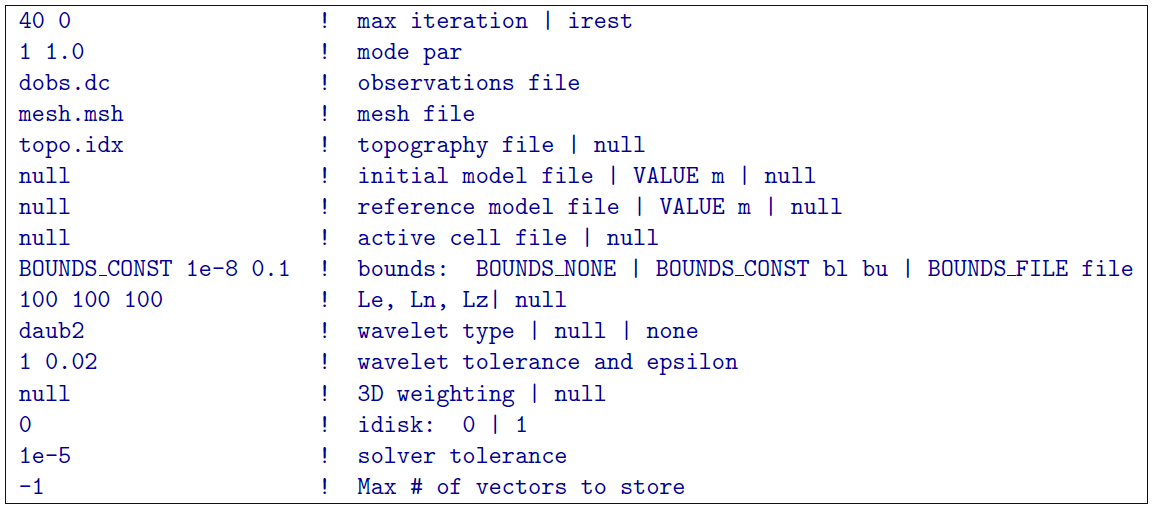
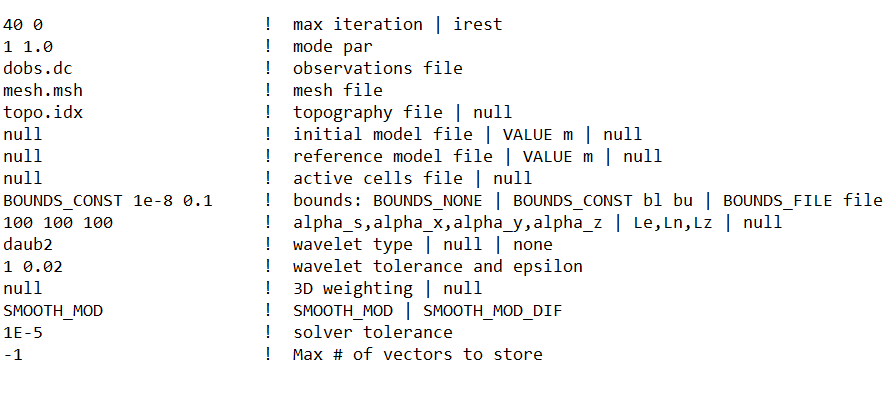
Add input file format for version 5.5

Changed region(s): [[0.0, 0.2382, 0.9989, 1.0], [0.0, 0.0, 0.9989, 0.2382]]

diff --git a/conf.py b/conf.py
@@ -67,9 +67,9 @@ author = u'UBC-GIF'
 # built documents.
 #
 # The short X.Y version.
-version = '5.0'
+version = '5.5'
 # The full version, including alpha/beta/rc tags.
-release = 'July 2013'
+release = 'March 2020'
 
 # The language for content autogenerated by Sphinx. Refer to documentation
 # for a list of supported languages.

diff --git a/content/runprog/ipinv.rst b/content/runprog/ipinv.rst
@@ -1,5 +1,8 @@
 .. _ipinv:
 
+
+.. important:: In March of 2020, a new version of DCIP3D was released. The latest version has slightly different input files. We will provide documentation for the input files for current and past versions.
+
 IPInv3D
 ===========
 
@@ -11,30 +14,59 @@ This program performs the inversion of induced polarization data. Command line u
 
 For the control file ``ipinv.inp`` described below.
 
-Control parameters and input files
+Input file for version 5.5 and later
+------------------------------------
+
+The input file for *ipinv3d* versions 5.5 and later is as follows:
+
+.. figure:: ../../images/ipinv_new.PNG
+        :figwidth: 75%
+        :align: center
+
+
+
+
+Input file for versions before 5.5
 ----------------------------------
 
-The bounds for version 5.0 have NOT been added for IP data inversion. Positivity is enforced through the log-barrier method. The format for the main IP inversion input file is:
+The bounds for versions before 5.5 have NOT been added for IP data inversion. Positivity is enforced through the log-barrier method. The format for the main IP inversion input file in this case is:
 
 .. figure:: ../../images/ipinv.PNG
         :figwidth: 75%
         :align: center
 
+
+Parameter Definitions
+---------------------
+
+
 irest
-        An integer specifying how to start the inversion. There are two choices:
+        An integer specifying how to start the inversion. This functionality is no long relevant in version 5.5. There are two choices:
 
         1. irest=0 Begins the inversion from scratch
 
         2. irest=1 Restarts the inversion from a previous iteration. The files ``ipinv3d.aux`` and ``ipinv3d.eta`` must be present for this option.
 
-mode,par
+mode
         An integer specifying one of the two choices for determining the trade-off parameter (a real value):
 
-                1. mode=1: the program chooses the trade off parameter by carrying out a line search so that the target value of data misfit is achieved (e.g.,  :math:`\phi_d= N`). the target misfit value is given by the product of par and the number of data, N. Normally, the value of par should be 1.0 if the correct standard deviation of error is assigned to each datum.
+                1. mode=1: the program chooses the trade off parameter by carrying out a line search so that the target value of data misfit is achieved (e.g.,  :math:`\phi_d= N`). The target misfit is determined by the *par* parameter.
 
-                2. mode=2: the user inputs the trade off parameter as defined by par.
+                2. mode=2: the user inputs the trade off parameter as defined by *par*.
 
-                3. mode=3: the program calculates the trade-off parameter using generalized cross validation (GCV) and par is ignored
+                3. mode=3: the program calculates the trade-off parameter using generalized cross validation (GCV) and *par* is ignored
+
+
+par
+        Specifies the stopping criteria for the inversion:
+
+                1. If *mode* is set to equal 1, then the target misfit value is given by the product of *par* and the number of data, N. Normally, the value of *par* should be 1.0 if the correct standard deviation of error is assigned to each datum.
+
+                2. If *mode* is set to equal 2, the *par* defines the trade off parameter.
+
+
+tolc
+        If *mode* is set to equal 1, then *par* is used to set the target misfit. The *tolc* parameter gives us some 'wiggle room' for the target misfit. If we let *par* = 1 and *tolc* = 0.2, then we are saying the target misfit is somewhere within the number of data time 1 +/- 0.2.
 
 data
         The DC observation locations (with standard deviations).
@@ -111,6 +143,17 @@ ipinv3d.chg
 
 Example files
 -------------
+
+**Version 5.5 and later**
+
+This example of an IP inversion input file starts the inversion from scratch and performs a line search find the trade-off parameter. The sensitivity matrix file was renamed to ``diffTol.mtx`` so the use new that they had used a different tolerance (and so they could switch to the other matrix file without re-running ``IPSEN3D``). The initial model is set to null and depends upon the IP data type. The ref rence model was zero. Length scales were given to drive the recovered chargeabilities to more layered geometry. Additional weighting was applied through the file ``w.dat``, supplied by the user. Bounds were used to recover chargeabilities between 0 and 1.
+
+.. figure:: ../../images/ipinvexample_new.PNG
+        :figwidth: 75%
+        :align: center
+
+
+**Before version 5.5**
 
 This example of an IP inversion input file starts the inversion from scratch and performs GCV to find the trade-off parameter. The sensitivity matrix file was renamed to ``diffTol.mtx`` so the use new that they had used a different tolerance (and so they could switch to the other matrix file without re-running ``IPSEN3D``). The initial model is set to null and depends upon the IP data type. The ref rence model was zero. Length scales were given to drive the recovered chargeabilities to more layered geometry. Additional weighting was applied through the file ``w.dat``, supplied by the user.
 

diff --git a/content/runprog/dcinv.rst b/content/runprog/dcinv.rst
@@ -1,5 +1,7 @@
 .. _dcinv:
 
+.. important:: In March of 2020, a new version of DCIP3D was released. The latest version has slightly different input files. We will provide documentation for the input files for current and past versions.
+
 DCInv3D
 ===========
 
@@ -11,14 +13,29 @@ DCInv3D
 
 where nThread is an optional integer argument to specify the number of OpenMP threads to use for the parallelization. If this value is missing, ``DCINV3D`` will use the maximum number of threads based on the processor. The input file, dcinv.inp is described below.
 
-Control parameters and input files
+Input file for version 5.5 and later
+------------------------------------
+
+As a command line argument, ``DCInv3D`` requires an input file containing all parameters and files needed to carry out the inversion. Below, we show the input file format for DCIP3D version 5.5 and later.
+
+.. figure:: ../../images/dcinv_new.PNG
+        :figwidth: 75%
+        :align: center
+
+
+Input file for versions before 5.5
 ----------------------------------
 
-As a command line argument, ``DCInv3D`` requires an input file containing all parameters and files needed to carry out the inversion. The following shows the required format:
+As a command line argument, ``DCInv3D`` requires an input file containing all parameters and files needed to carry out the inversion. Below, we show the input file format for DCIP3D versions **before** 5.5.
 
 .. figure:: ../../images/dcinv.PNG
         :figwidth: 75%
         :align: center
+
+
+
+Parameter Definitions
+---------------------
 
 maxit,irest
         Two integers containing the maximum number of Gauss-newton iterations to be performed (maxit) and how to start the inversion. There are two choices for irest:
@@ -83,11 +100,14 @@ itol,eps
 weight
         Name of the file containing weighting matrix. If null is entered, the default value of one is used for no extra weighting.
 idisk
-        Integer flag of zero or one to write the sensitivities to disk
+        Integer flag of zero or one to write the sensitivities to disk. This functionality was rendered obsolete in version 5.5
 
                 1. idisk=0: Store the entire sensitivity matrix in memory. This option will be desired in almost all cases.
 
                 2. idisk=1: Access the sensitivity matrix from memory when needed
+
+constr
+        This functionality was introduced in version 5.5. SMOOTH_MOD runs the inversion without implementing a reference model (essential mref=0). “SMOOTH_MOD_DIF” constrains the inversion in the smallness and smoothness terms using a reference model.
 
 tol
         This value indicates how well the forward modelled system is solved (1e-5 is a standard input)
@@ -136,8 +156,8 @@ check sign.txt
         This file will prompt the user to check the sign of specific observed potentials after brief data checks. It may or may not be created.
 
 
-Example files
--------------
+Example file for dcinv3d v 5.5
+------------------------------
 
 Below is an example of the input file ``dcinv.inp``. It will start from scratch and stop after 40 iterations if the desired misfit is not achieved. The desired misfit is the number of data and the program will compute the trade-off parameter. The reference and initial models are the best fitting half space. There are bounds throughout the model with the lowest bound of 1e-8 S/m and the upper bound of 0.1 S/m.
 

diff --git a/content/exeprism/dcinv_example.rst b/content/exeprism/dcinv_example.rst
@@ -2,6 +2,7 @@
 
 DC Inversion
 ============
+
 The data created in section 5.2.1 are contaminated with 5% Gaussian noise. The uncertainties are estimated at 5% and a  oor of 0.0001 Volts. In this case, we know the true datamisfit that should be achieved is near the number of data, therefore we select ``mode=1`` to have ``DCINV3D`` perform a line search to choose the appropriate trade-off parameter. The parameter will be 1.0 to signify 48 that the datamisfit is n number of data. The minimum file requirements for ``DCINV3D`` is just the data file. In this case, we will choose not to use bounds. However, we will use the w.dat that was created when discretizing the topography. We will cap the inversion at 40 iterations. We will use the default reference model (best fitting half-space) and initial model (same as the reference model). The inversion starts from scratch so ``irest=0`` is given. The new incorporation of bounds is useful in real-life situations where there is down-hole mea- surements that often have additional conductivity measurements from well logs. Soft constraints, such as the reference model and weighting file would attempt to enforce the values the geophysicist has chosen from the well log information (which would need to be discretized onto the mesh). The user could also use hard constraints on the inversion by incorporating bounds or by using a reference model in combination of an active cells file where the cells located along the borehole are inactive (i.e., set to 0 in the active file).
 
 The inversion of the DC data is run by using the command
@@ -10,7 +11,15 @@ The inversion of the DC data is run by using the command
 
     dcinv3d dcinv.inp
 
-where the input file, ``dcinv.inp`` looks like the following:
+For version 5.5 and later, the input file ``dcinv.inp`` looks like the following:
+
+.. figure:: ../../images/dcinvinp_new.png
+        :name: dcinvinp_new
+        :figwidth: 75%
+        :align: center
+
+
+For versions before 5.5, the input file would look like (**version 5.0 was used to create this example**):
 
 .. figure:: ../../images/dcinvinp.png
         :name: dcinvinp

diff --git a/content/exeprism/ipinv_example.rst b/content/exeprism/ipinv_example.rst
@@ -2,6 +2,7 @@
 
 IP Inversion
 ============
+
 The data created in section 5.2 are contaminated with 5% Gaussian noise. The uncertainties are estimated at 5% and a floor of 0.0001. We first must create the sensitivity matrix by running ``IPSEN3D``. This is done via the command line:
 
 .. code-block:: rst
@@ -28,7 +29,15 @@ As with the DC, we know the true data misfit that should be achieved is near the
 
         ipinv3d ipinv.inp
 
-where the input file ipinv.inp is
+For version 5.5 and later, the input file ``ipinv.inp`` looks like the following:
+
+.. figure:: ../../images/ipinvinp_new.png
+        :name: ipinvinp_new
+        :figwidth: 75%
+        :align: center
+
+
+For versions before 5.5, the input file would look like (**version 5.0 was used to create this example**:
 
 .. figure:: ../../images/ipinvinp.png
         :name: ipinvinp

diff --git a/index.rst b/index.rst
@@ -1,3 +1,5 @@
+.. important:: In March of 2020, a new version of DCIP3D was released. The latest version has slightly different input files. We will provide documentation for the input files for current and past versions.
+
 DCIP3D package
 ==============
 
